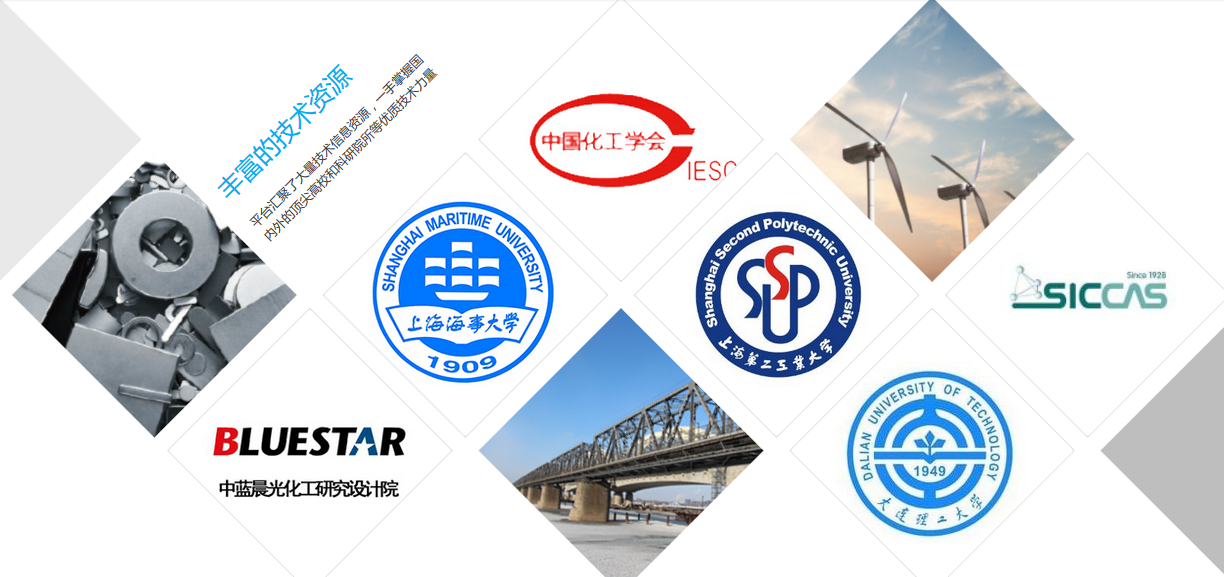
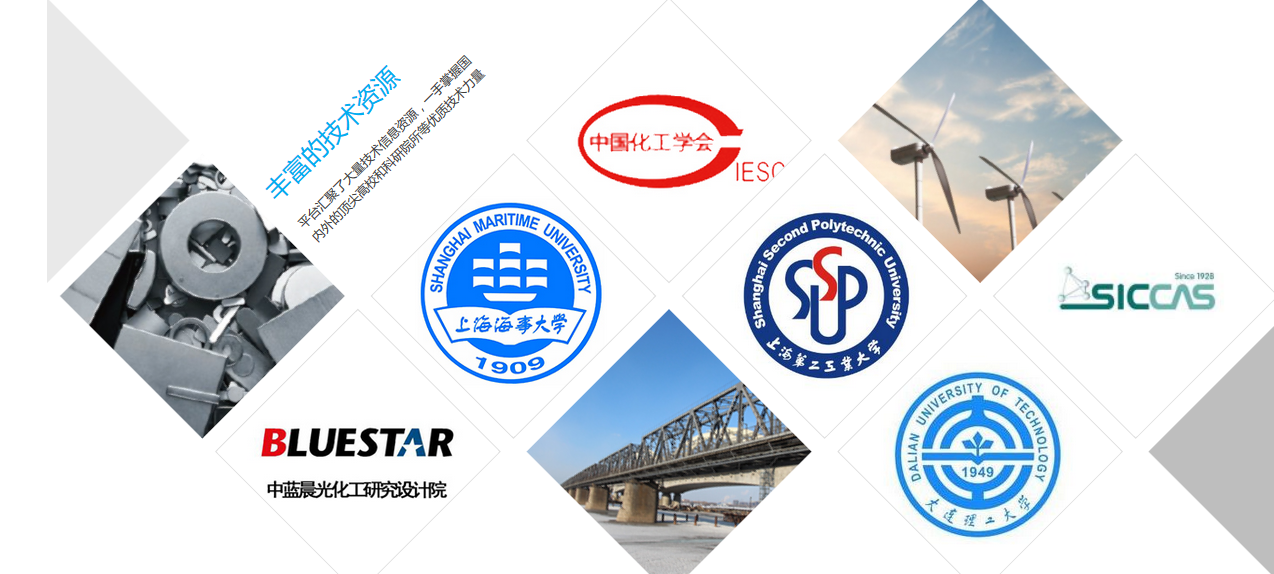
change backgroundColor and bugs

diff --git a/src/pages/ThinkTank.vue b/src/pages/ThinkTank.vue
@@ -1,7 +1,7 @@
 <!-- 首页 -->
 <template>
 	<div class="ThinkTank">
-		<div class="content" style="border:1px solid #ccc">
+		<div class="cencent">
 			<div class="warperrr">
 			<div class="biaoti">
 				<h1>有问题&nbsp;&nbsp;找专家</h1>
@@ -16,6 +16,8 @@
 			</div><br>
 			<br>
 			<br>
+			
+
 			<div class="zhuanjia">
 				<i>入&nbsp;驻&nbsp;专&nbsp;家</i>
 			</div><br>
@@ -41,8 +43,8 @@
 						</ul>
 						
 					</div>
-					<
-					<img style="width:300px;height:330px" src="https://res4.maikeji.cn/FlcdTlvZyfwZe8gLMBqMPwTagWoa" alt="">
+				
+					<img style="width:300px;height:330px;margin-left:15px" src="https://res4.maikeji.cn/FlcdTlvZyfwZe8gLMBqMPwTagWoa" alt="">
 						
 					<div style="width:300px;height:80px;background-color: white" class="name">
 						<ul>
@@ -85,7 +87,7 @@
 							<li><li><li @click="changePageOne"><i style="border:1px solid white; padding:10px">药物输送</i>&nbsp;&nbsp;&nbsp;&nbsp;<i style="border:1px solid white;padding:10px">新型药品</i></li></li></li>
 						</ul>
 					</div>
-					<img style="width:300px;height:330px" src="https://res4.maikeji.cn/Fn6QnLSS8ORdQdT3C4eMC2ngB6NW"  alt="">
+					<img style="width:300px;height:330px;" src="https://res4.maikeji.cn/Fn6QnLSS8ORdQdT3C4eMC2ngB6NW"  alt="">
 					<div style="width:300px;height:80px;background-color: white" class="name-4">
 						<ul>
 							<li><b>陈志龙</b> 教授</li>
@@ -97,8 +99,10 @@
 			<div class="morethan">
 				查看更多医药科学类专家
 			</div><br>
+			</div>
 			<br>
 			<br>
+			<div class="sizing">
 			<div class="help">
 				合作机构
 			</div><br>
@@ -134,15 +138,23 @@
 </script>
 <style>
  .ThinkTank{
-	width:1240px;
-	margin:0 auto;
+	
 	background-color:#ebe9ea;
+
+}
+.sizing{
+	background-color: white;
+
+
 }
 i{
 	font-style:normal;
 }
-.content{
+.cencent{
 	position:relative;
+	width:1240px;
+	margin:0 auto;
+	background-color:#ebe9ea;
 	
 }
 .content .warperrr{
@@ -233,6 +245,8 @@ i{
 		line-height:40px;
 		font-size:16px;
 		margin-left:15px;
+		
+
 	}
 	.content .name-1{
 		text-align:center;
@@ -329,6 +343,7 @@ i{
 		text-align:center;
 		font-size:40px;
 		color:#333333;
+		padding-top:30px;
 	}
 	.content .toget{
 		text-align:center;
@@ -337,7 +352,9 @@ i{
 	.content .boot{
 		width:1240px;
 		height:600px;
-		background-color: lightblue;
+		background-color: white;
+		margin:0 auto;
+
 	}
 	
 	.content .look{
@@ -345,6 +362,7 @@ i{
 		font-size:25px;
 		color:#156fb8;
 		text-decoration:underline;
+		margin-bottom:2em;
 
 	}
 	
